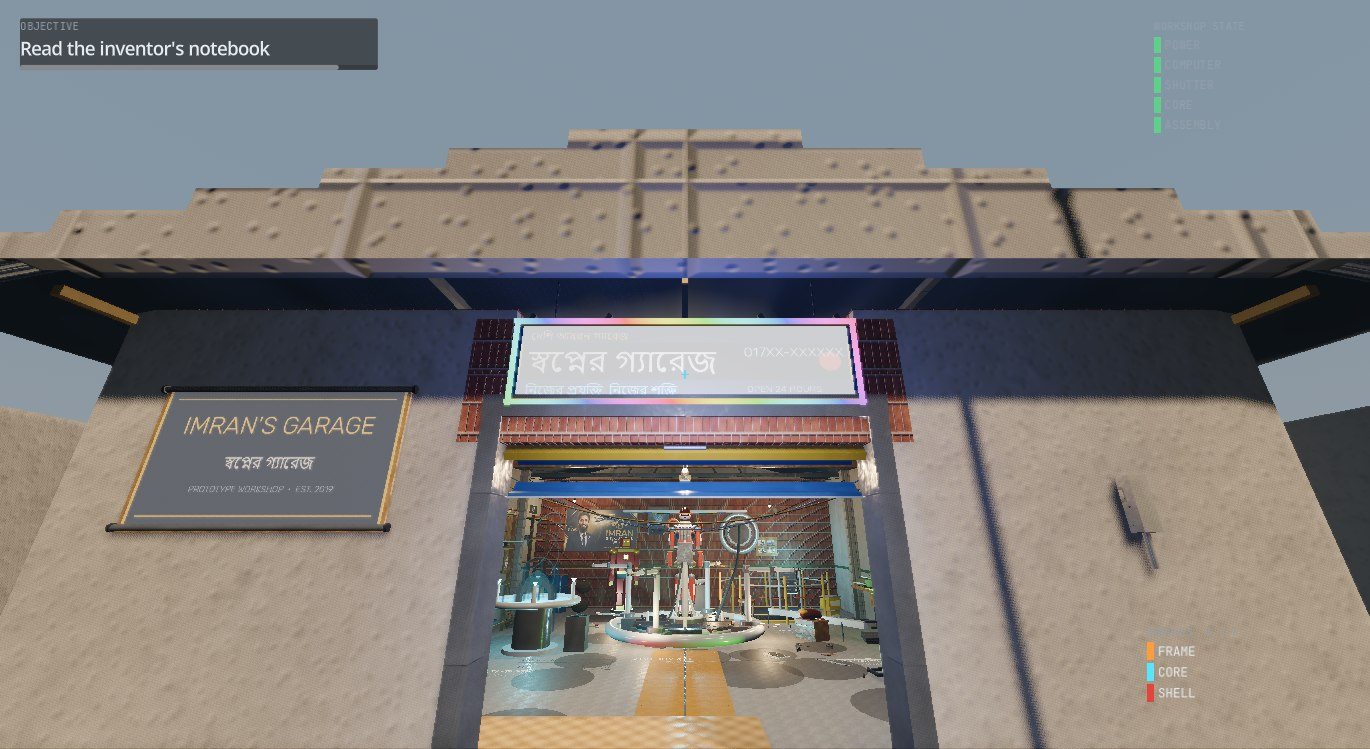
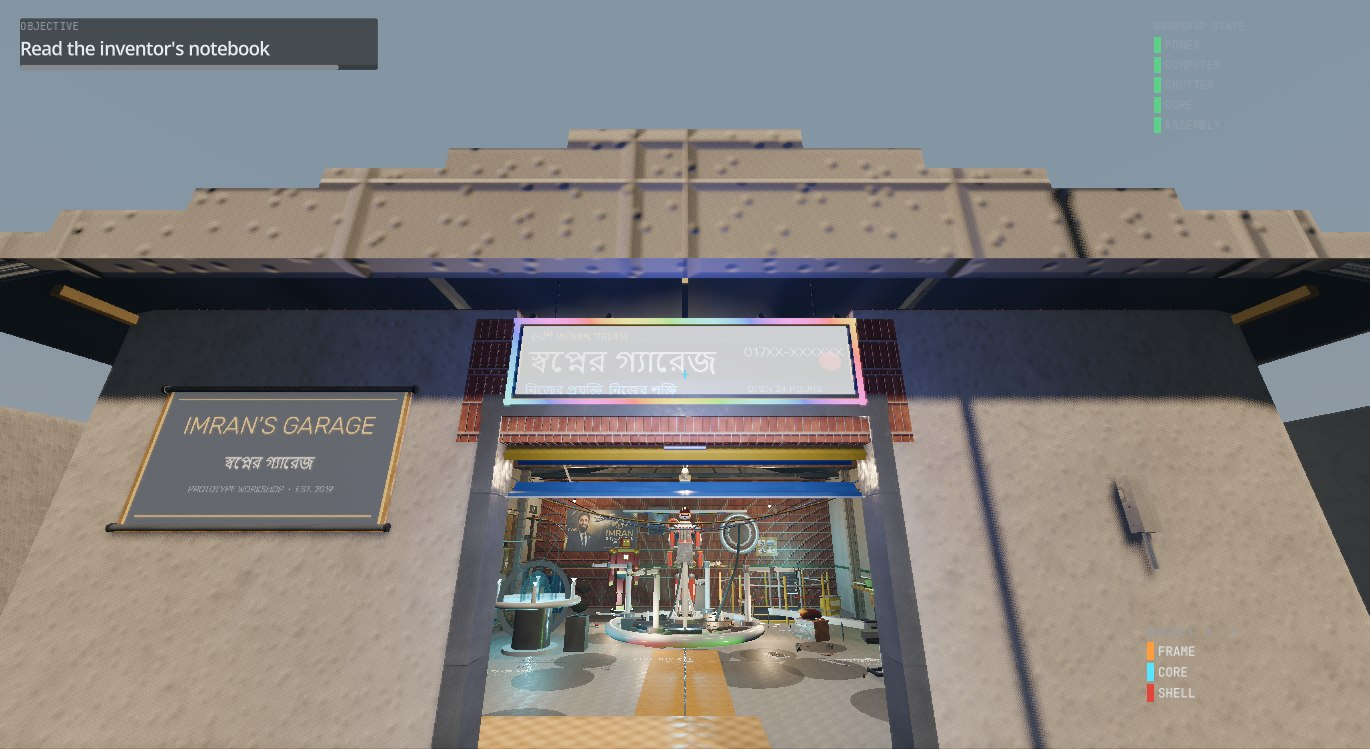
The build target is visible now: a hologram of the figure over the base
- Why the three-part build read as "not working" in play: the service base is
  a 6 cm disc, so a carried assembly had no visible destination — the parts
  seemed to snap to nothing. The base now carries a cyan HOLOGRAM of the whole
  figure (three ghost pieces, additively blended, unshaded), and each ghost
  piece hides as its real assembly seats — the outline becomes the figure,
  piece by piece. It is excluded from carrying and from the overlap audit (it
  shares the figure's own volume by design).
- The walk-up seat is tighter (1.6 m), so the fit happens at the base rather
  than from across the bay; the E aim point is raised to the hologram's chest,
  so looking at the figure-to-be shows the armour prompt. The seat notice now
  counts "of 3" (it still said "of 4" from the old four-spare build).
- Verification: validate 55/55; armour probe 40 lines, 37/37 OK, 0 FAIL with
  the tighter radius (auto-seat by approach inside 1.6 m); a temp guided
  capture reviewed the unbuilt base with the full hologram and the
  half-replaced state (real legs, ghost torso and head above them) plus the
  red order banner, then reverted; final gallery taken. The ghost was
  strengthened once after the first review (alpha 0.14 -> 0.30, emission
  1.4 -> 2.2) so it reads as translucent cyan panels up close. One capture run
  stopped at shot 16 with no error (a flake); the re-run wrote all 20 shots.
- Docs: README and USER_MANUAL note the hologram target.

Changed region(s): [[0.3679, 0.3992, 0.6438, 0.5527], [0.3679, 0.737, 0.4292, 0.7984]]

diff --git a/docs/USER_MANUAL.md b/docs/USER_MANUAL.md
@@ -208,12 +208,13 @@ console. The board sleeps when the final check is done, and `R` resets the whole
 
 By the north wall, on its service base: the shop's own build, done the long way — the **figure in
 three parts**. The **legs**, the **torso** and the **head** wait together on the **build pallet** just
-inside the entrance. Left-click an assembly to carry it back to the base: walking it up **seats it by
-itself** (or press `E` for the button) with the snap, the latch and a light pulse, the base ring
-climbing a step. The order is low to high and enforced: legs first, then torso, then head. **The head
-completes the figure and it powers on** — core lens, eye slits and ring light up — and after the beat
-**the bolts seal it on their own**, a clack cascade with a second surge. `E` with empty hands strips
-the figure back to the pallet for another build.
+inside the entrance, and a cyan **hologram of the whole figure** hovers over the base until the real
+parts replace it, piece by piece. Left-click an assembly to carry it back to the base: walking it up
+**seats it by itself** (or press `E` for the button) with the snap, the latch and a light pulse, the
+base ring climbing a step. The order is low to high and enforced: legs first, then torso, then head.
+**The head completes the figure and it powers on** — core lens, eye slits and ring light up — and
+after the beat **the bolts seal it on their own**, a clack cascade with a second surge. `E` with empty
+hands strips the figure back to the pallet for another build.
 
 It is a guided job: waking at the build pallet, the **floating arrows** stand over every assembly
 still waiting, while the next one's arrow rises on a **column of light** and moves with you. Under

diff --git a/README.md b/README.md
@@ -125,7 +125,9 @@ the flag file.
 
 **For a presentation.** The shop's armour is built — the whole figure, in three
 parts, low to high: the legs, the torso and the head wait together on a build
-pallet just inside the entrance, and the service base waits by the north wall.
+pallet just inside the entrance, and the service base waits by the north wall —
+a cyan **hologram of the whole figure** hovering over it until the real parts
+replace it, piece by piece.
 Carry each assembly over — walking it up **seats it by itself** (or press `E`),
 the base ring climbing a step — legs first, then torso, then head, and the
 order is enforced in red if you try the head early. **The head completes the
